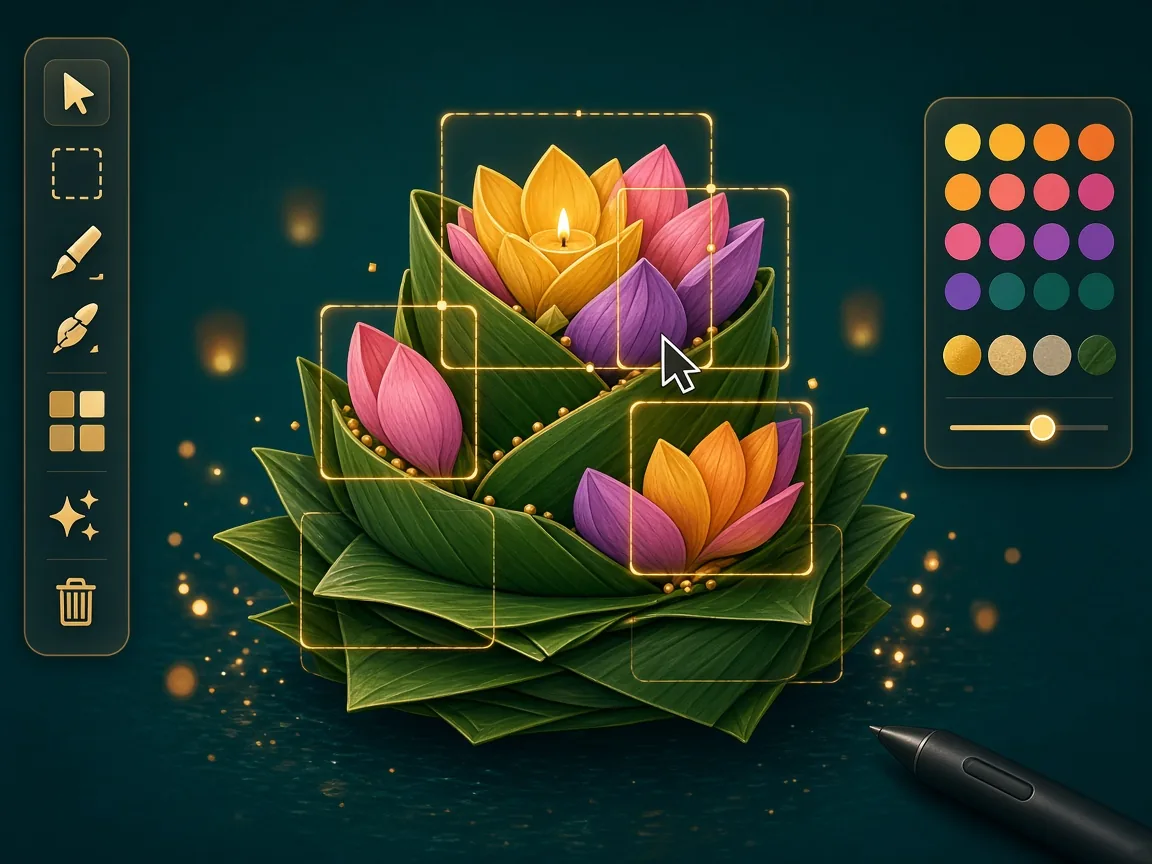
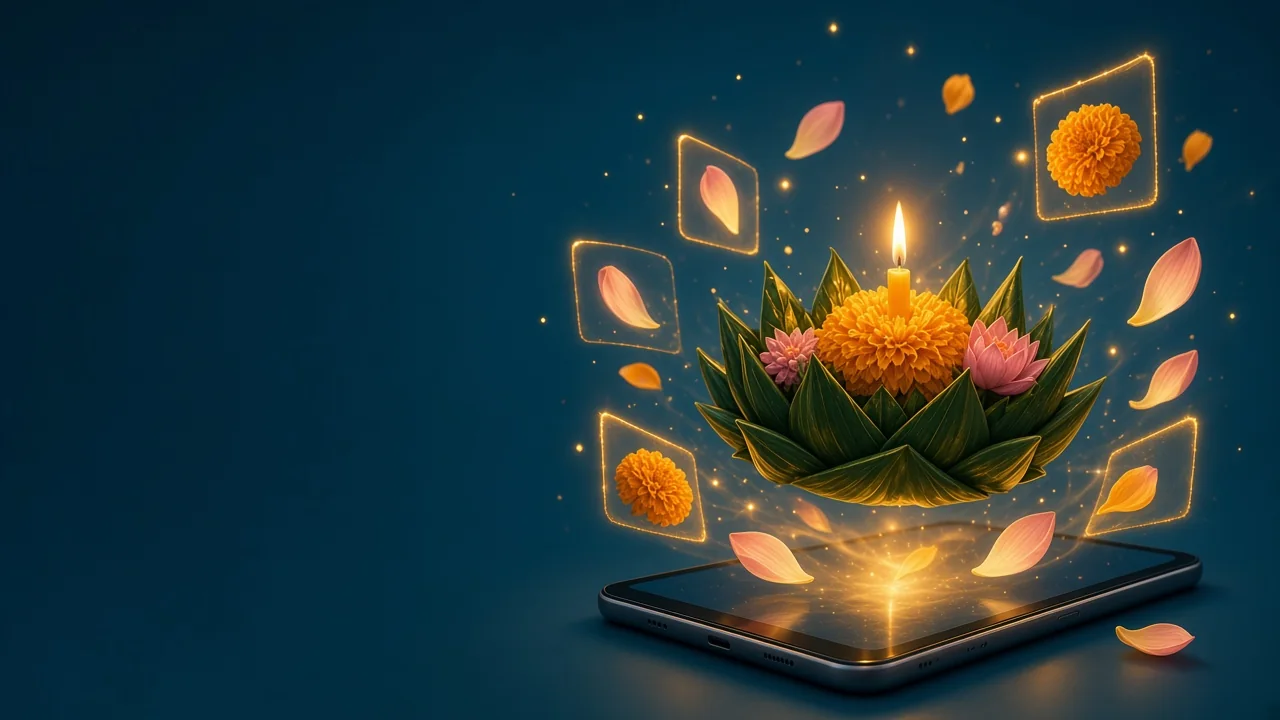
v15.2: 顶栏兰纳织锦按钮（点亮纹理而非平涂渐变）、水灯默认固定尺寸、河面尺寸上限与短岸包装、页头页脚与入口底图

diff --git a/index.html b/index.html
@@ -1,15 +1,15 @@
 <!doctype html>
-<!-- © 2026 CMI Community (Chiang Mai). Designed and made by 林可 (Link) for the 2026 CMI 水灯庆典. Original design; please credit CMI Community when reusing. --><html lang="zh-CN"><head><meta charset="utf-8"><meta name="author" content="林可 (Link) · CMI Community"><meta name="copyright" content="© 2026 CMI Community (Chiang Mai)"><meta property="og:site_name" content="CMI Community"><meta property="og:type" content="website"><meta property="og:locale" content="zh_CN"><meta property="og:locale:alternate" content="en_US"><meta property="og:locale:alternate" content="th_TH"><script type="application/ld+json">{"@context": "https://schema.org", "@type": "WebApplication", "name": "2026 CMI 水灯庆典", "url": "https://linklinkguan.github.io/cmi-loykrathong-cards/", "inLanguage": ["zh-CN", "en", "th"], "author": {"@type": "Person", "name": "林可 (Link)"}, "copyrightHolder": {"@type": "Organization", "name": "CMI Community", "url": "https://cmi.community/"}, "copyrightYear": 2026, "creditText": "© 2026 CMI Community (Chiang Mai). Designed and made by 林可 (Link) for the 2026 CMI 水灯庆典. Original design; please credit CMI Community when reusing.", "license": "https://linklinkguan.github.io/cmi-loykrathong-cards/LICENSE.md"}</script><meta name="viewport" content="width=device-width,initial-scale=1"><meta name="theme-color" content="#065E60"><meta name="description" content="2026 CMI 水灯庆典"><meta property="og:title" content="2026 CMI 水灯庆典"><meta property="og:description" content="抽一张灵感，放一盏心灯"><link rel="canonical" href="https://linklinkguan.github.io/cmi-loykrathong-cards/"><meta property="og:url" content="https://linklinkguan.github.io/cmi-loykrathong-cards/"><title>2026 CMI 水灯庆典</title><link rel="icon" href="img/logo.svg" type="image/svg+xml"><link rel="stylesheet" href="css/style.css?v=1501">
-<link rel="stylesheet" href="css/river.css?v=1503"></head><body>
+<!-- © 2026 CMI Community (Chiang Mai). Designed and made by 林可 (Link) for the 2026 CMI 水灯庆典. Original design; please credit CMI Community when reusing. --><html lang="zh-CN"><head><meta charset="utf-8"><meta name="author" content="林可 (Link) · CMI Community"><meta name="copyright" content="© 2026 CMI Community (Chiang Mai)"><meta property="og:site_name" content="CMI Community"><meta property="og:type" content="website"><meta property="og:locale" content="zh_CN"><meta property="og:locale:alternate" content="en_US"><meta property="og:locale:alternate" content="th_TH"><script type="application/ld+json">{"@context": "https://schema.org", "@type": "WebApplication", "name": "2026 CMI 水灯庆典", "url": "https://linklinkguan.github.io/cmi-loykrathong-cards/", "inLanguage": ["zh-CN", "en", "th"], "author": {"@type": "Person", "name": "林可 (Link)"}, "copyrightHolder": {"@type": "Organization", "name": "CMI Community", "url": "https://cmi.community/"}, "copyrightYear": 2026, "creditText": "© 2026 CMI Community (Chiang Mai). Designed and made by 林可 (Link) for the 2026 CMI 水灯庆典. Original design; please credit CMI Community when reusing.", "license": "https://linklinkguan.github.io/cmi-loykrathong-cards/LICENSE.md"}</script><meta name="viewport" content="width=device-width,initial-scale=1"><meta name="theme-color" content="#065E60"><meta name="description" content="2026 CMI 水灯庆典"><meta property="og:title" content="2026 CMI 水灯庆典"><meta property="og:description" content="抽一张灵感，放一盏心灯"><link rel="canonical" href="https://linklinkguan.github.io/cmi-loykrathong-cards/"><meta property="og:url" content="https://linklinkguan.github.io/cmi-loykrathong-cards/"><title>2026 CMI 水灯庆典</title><link rel="icon" href="img/logo.svg" type="image/svg+xml"><link rel="stylesheet" href="css/style.css?v=1520">
+<link rel="stylesheet" href="css/river.css?v=1524"></head><body>
 <div class="top"><div class="languages"><button data-lang="zh">中</button><button data-lang="en">EN</button><button data-lang="th">ไทย</button></div><button id="sfx" class="mute sfx" type="button" aria-label="关闭音效"><svg viewBox="0 0 24 24" width="18" height="18" fill="none" stroke="currentColor" stroke-width="1.7" stroke-linecap="round" stroke-linejoin="round" aria-hidden="true"><path d="M11 5L6 9H2v6h4l5 4z"/><path class="w1" d="M15.5 8.5a5 5 0 0 1 0 7"/><path class="w2" d="M19 5a10 10 0 0 1 0 14"/><path class="x" d="M16 9l6 6M22 9l-6 6"/></svg></button><button id="mute" class="mute" aria-label="静音">♫</button></div>
 
-<main><header><img src="img/logo-white.webp" alt="CMI Community"><div class="eyebrow">✦ &nbsp; LOY KRATHONG FESTIVAL 2026 &nbsp; ✦</div><h1 data-i="title">2026 CMI 水灯庆典</h1><p data-i="subtitle">抽一张灵感，放一盏心灯</p><div class="event-links"><a class="about-link" href="about.html?lang=zh">活动背景</a></div></header><nav class="tabs"><button data-tab="cards" data-i="cardsTab">抽灵感卡</button><button data-tab="river" data-i="riverTab">水灯</button><button data-tab="culture" data-i="cultureTab">水灯文化</button></nav>
+<main><header><img src="img/logo-white.webp" alt="CMI Community"><div class="eyebrow">✦ &nbsp; LOY KRATHONG FESTIVAL 2026 &nbsp; ✦</div><h1 data-i="title">2026 CMI 水灯庆典</h1><p data-i="subtitle">抽一张灵感，放一盏心灯</p><div class="event-links"><a class="about-link" href="about.html?lang=zh">活动背景</a></div></header><nav class="tabs"><button data-tab="cards"><svg viewBox="0 0 32 32" fill="none" stroke="currentColor" stroke-width="1.7" stroke-linecap="round" stroke-linejoin="round" aria-hidden="true"><rect x="7" y="4" width="18" height="24" rx="2"/><path d="M16 10l1.3 3.7L21 15l-3.7 1.3L16 20l-1.3-3.7L11 15l3.7-1.3z"/></svg><span class="tab-copy"><span class="tab-title" data-i="cardsTab">灵感卡</span><span class="tab-subtitle" data-i="cardsTabSub">抽一张找灵感</span></span></button><button data-tab="river"><svg viewBox="0 0 32 32" fill="none" stroke="currentColor" stroke-width="1.7" stroke-linecap="round" stroke-linejoin="round" aria-hidden="true"><path d="M5 22c3 5 19 5 22 0H5zM16 21c-4-3-5-7 0-12 5 5 4 9 0 12zM15 21c-5 0-8-3-8-7 4 0 6 2 8 5M17 21c5 0 8-3 8-7-4 0-6 2-8 5M16 7V4"/></svg><span class="tab-copy"><span class="tab-title" data-i="riverTab">做水灯</span><span class="tab-subtitle" data-i="riverTabSub">上传或在线创作</span></span></button><button data-tab="culture"><svg viewBox="0 0 32 32" fill="none" stroke="currentColor" stroke-width="1.7" stroke-linecap="round" stroke-linejoin="round" aria-hidden="true"><path d="M16 9c-3-3-7-3-11-2v17c4-1 8-1 11 2m0-17c3-3 7-3 11-2v17c-4-1-8-1-11 2m0-17v17M8 11c2-.3 4 0 5 1m6 0c1-.7 3-1.3 5-1"/></svg><span class="tab-copy"><span class="tab-title" data-i="cultureTab">文化</span><span class="tab-subtitle" data-i="cultureTabSub">了解水灯节</span></span></button></nav>
 <section id="cards"><div class="section-intro"><span>✧</span><h2 data-i="choose">让灵感随水而来</h2><p data-i="how">点「抽一组」获得传统＋挑战＋创意三张组合，也可以单独抽某一类。</p></div><div class="decks" id="decks"></div><div class="actions"><button class="primary" id="drawAll" data-i="drawAll">抽一组</button><div class="secondary-actions" id="singles"></div></div></section>
 <section id="builder" hidden><div class="section-intro"><span>✧</span><h2 data-i="builderTitle">亲手搭一盏水灯</h2><p data-i="builderHelp">选择材料，创作属于你的水灯。</p></div><div id="builder-workspace" aria-live="polite"></div></section>
 <section id="culture" class="culture" hidden></section>
 <section id="river" class="river" hidden></section>
 <section id="upload" class="upload-page" hidden></section>
-<footer><a href="https://cmi.community/" target="_blank" rel="noopener" data-i="website">前往 CMI 官网 ↗</a><p data-i="footer">2026-11-22 · CMI Studio／明月山庄</p><div class="contact"><strong data-i="contact">联系作者</strong><a href="https://x.com/linklinkguan" target="_blank" rel="noopener"><span data-i="dm">在 X 上私信我</span> · @linklinkguan ↗</a></div><small class="credit" data-i="credit"></small><small class="credit" id="siteCredit"></small></footer></main>
+<footer><div class="footer-primary"><a href="https://cmi.community/" target="_blank" rel="noopener" data-i="website">前往 CMI 官网 ↗</a><span aria-hidden="true"> · </span><span data-i="footer">2026-11-22 · CMI Studio／明月山庄</span><span aria-hidden="true"> · </span><a href="https://x.com/linklinkguan" target="_blank" rel="noopener"><span data-i="dm">在 X 上私信我</span> @linklinkguan ↗</a></div><div class="footer-credits"><small class="credit" data-i="credit"></small> <small class="credit" id="siteCredit"></small></div></footer></main>
 <div class="water" aria-hidden="true"><svg viewBox="0 0 800 120" preserveAspectRatio="xMidYMax slice"><defs><g id="float-lantern"><ellipse cy="5" rx="36" ry="7" fill="#d2ad5e" opacity=".17"/><path d="M-30 0 Q0 20 30 0 Q0 9 -30 0" fill="#66884b"/><path d="M-27 -1 Q-25 -17 -11 -3 Q-10 -18 0 -23 Q10 -18 11 -3 Q25 -17 27 -1 Q0 8 -27 -1" fill="#f3e6b7" stroke="#d6b26c" stroke-width="1"/><path d="M-21 0 Q-17 -11 -7 -2 M21 0 Q17 -11 7 -2" fill="none" stroke="#a3bc74"/><rect x="-2" y="-16" width="4" height="11" rx="1" fill="#f6dfa3"/><path d="M0 -25 Q-5 -19 0 -17 Q5 -19 0 -25" fill="#ffc65e"/></g></defs><path d="M0 75 Q100 58 200 75 T400 75 T600 75 T800 75 M0 96 Q100 78 200 96 T400 96 T600 96 T800 96 M0 112 Q100 98 200 112 T400 112 T600 112 T800 112" fill="none" stroke="#e8c77a" opacity=".18"/><g class="boat boat-a"><use href="#float-lantern"/></g><g class="boat boat-b"><use href="#float-lantern"/></g><g class="boat boat-c"><use href="#float-lantern"/></g></svg></div>
-<div id="stage" class="stage" hidden><button class="close" id="close" aria-label="Close">×</button><div class="stage-inner"><div class="eyebrow">✧ &nbsp; YOUR INSPIRATION &nbsp; ✧</div><h2 data-i="reveal">这一刻的灵感</h2><p data-i="tap">轻点卡片，细看灵感</p><div id="reveals" class="reveals"></div><div class="stage-actions"><button class="primary" id="save" data-i="save">保存图片</button><button id="again" data-i="again">再抽一次</button></div></div></div><div id="large" class="large" hidden><button id="closeLarge" class="close">×</button><div id="largeCard"></div><p data-i="flipHint">轻点卡片翻面</p></div><div id="saveOverlay" class="large" hidden><button class="close" onclick="this.parentNode.hidden=true">×</button><p data-i="saveHint">长按图片保存到相册</p><img id="saveImage" alt=""></div><audio id="music" loop src="audio/lanna-loop.mp3"></audio><script src="js/deck.js"></script><script src="js/culture.js?v=1501"></script><script src="js/app.js?v=1501"></script>
-<script src="js/river.js?v=1503"></script></body></html>
+<div id="stage" class="stage" hidden><button class="close" id="close" aria-label="Close">×</button><div class="stage-inner"><div class="eyebrow">✧ &nbsp; YOUR INSPIRATION &nbsp; ✧</div><h2 data-i="reveal">这一刻的灵感</h2><p data-i="tap">轻点卡片，细看灵感</p><div id="reveals" class="reveals"></div><div class="stage-actions"><button class="primary" id="save" data-i="save">保存图片</button><button id="again" data-i="again">再抽一次</button></div></div></div><div id="large" class="large" hidden><button id="closeLarge" class="close">×</button><div id="largeCard"></div><p data-i="flipHint">轻点卡片翻面</p></div><div id="saveOverlay" class="large" hidden><button class="close" onclick="this.parentNode.hidden=true">×</button><p data-i="saveHint">长按图片保存到相册</p><img id="saveImage" alt=""></div><audio id="music" loop src="audio/lanna-loop.mp3"></audio><script src="js/deck.js"></script><script src="js/culture.js?v=1501"></script><script src="js/app.js?v=1522"></script>
+<script src="js/river.js?v=1525"></script></body></html>

diff --git a/css/river.css b/css/river.css
@@ -200,11 +200,30 @@ body:not(.builder-mode) footer{margin-top:auto;padding:32px 0 12px;border-top:1p
 body:not(.builder-mode) footer>a,body:not(.builder-mode) footer p,body:not(.builder-mode) footer .contact{margin:0}
 body:not(.builder-mode) footer .credit{flex-basis:100%}
 body:not(.builder-mode) footer .credit a{font-size:inherit;margin:0}
-.tabs{max-width:490px;align-items:center;gap:8px;background:none;border:0;padding:0}
-.tabs button{border:0;border-radius:4px;background:transparent;color:#d8dfc9;padding:10px 5px}
-.tabs button[data-tab=river]{flex:1.35;border:1px solid #e8c77a;background:linear-gradient(145deg,#145e5b,#073a3e);border-radius:14px;padding:14px 8px;color:#ffe4a1;font-weight:700;box-shadow:0 4px 16px #002a2c77}
-.tabs button.active:not([data-tab=river]){color:#ffe8ad;background:transparent;border-bottom:2px solid #e8c77a}
-.tabs button[data-tab=river].active{background:linear-gradient(145deg,#f2d894,#cb9c48);color:#143f3d}
+/* Main navigation: three distinct, generous actions. */
+.tabs{max-width:850px;align-items:stretch;gap:14px;background:none;border:0;padding:0}
+/* The transparent brocade tile lets the ground and the illuminated threads vary independently. */
+.tabs button,.tabs button[data-tab=river]{position:relative;isolation:isolate;display:flex;align-items:center;justify-content:center;gap:11px;flex:1;min-width:0;min-height:78px;padding:14px 16px;border:1px solid #d9c17d99;border-radius:14px;overflow:hidden;background:#073f40;color:#f7e6bc;text-align:left;box-shadow:0 5px 18px #002a2c55;white-space:normal;transition:border-color .2s,box-shadow .2s,transform .2s}
+.tabs button:before{content:"";position:absolute;inset:0;z-index:-1;border-radius:inherit;background:url('../assets/patterns/lanna-brocade.svg') repeat;opacity:.25;transition:opacity .2s,filter .2s;pointer-events:none}
+.tabs button[data-tab=river]{flex:1.18;background:#d9b56d;border-color:#f9e5af;color:#143f3d}
+.tabs button[data-tab=river]:before{opacity:.4}
+.tabs button:hover{border-color:#ffe4a1;transform:translateY(-2px)}
+.tabs button:hover:before{opacity:.38}
+.tabs button[data-tab=river]:hover:before{opacity:.55}
+.tabs button.active:not([data-tab=river]),.tabs button:not([data-tab=river]):active{background:#073f40;border-color:#f1d38b;color:#fff0c7;box-shadow:0 5px 18px #002a2c55,inset 0 0 22px #e8c77a88}
+.tabs button.active:not([data-tab=river]):before,.tabs button:not([data-tab=river]):active:before{opacity:.7;filter:drop-shadow(0 0 4px #ffc85a) drop-shadow(0 0 8px #e8b44a88)}
+.tabs button.active:not([data-tab=river]) .tab-title{text-decoration:none}
+.tabs button[data-tab=river].active,.tabs button[data-tab=river]:active{box-shadow:0 5px 18px #002a2c55,inset 0 0 20px #fff0aeaa}
+.tabs button[data-tab=river].active:before,.tabs button[data-tab=river]:active:before{opacity:.85;filter:drop-shadow(0 0 3px #fff0b5)}
+.tabs svg{width:30px;height:30px;flex:none;color:#e8c77a}
+.tabs button[data-tab=river] svg{color:#73531d}
+.tab-copy{background:#073f40ed;border-radius:4px;box-shadow:0 0 8px 4px #073f40ed;display:flex;flex-direction:column;gap:3px;min-width:0}
+.tabs button[data-tab=river] .tab-copy{background:#d9b56df2;box-shadow:0 0 8px 4px #d9b56df2}
+.tab-title{font-size:17px;font-weight:700;line-height:1.3}
+.tab-subtitle{font-size:11px;line-height:1.35;white-space:nowrap;opacity:.85}
+@media(max-width:820px){.tabs{gap:8px}.tabs button,.tabs button[data-tab=river]{padding:10px 7px;min-height:58px;gap:5px}.tabs svg{width:23px;height:23px}.tab-title{font-size:14px}.tab-subtitle{display:none}}
+@media(max-width:420px){.tabs{gap:6px}.tabs button,.tabs button[data-tab=river]{padding:8px 4px}.tabs svg{width:20px;height:20px}.tab-title{font-size:12px}}
+
 .about-link{display:inline-block;flex-basis:auto;margin:4px auto 0;padding:8px 22px;border:1px solid #dcbf7b;border-radius:6px;background:linear-gradient(135deg,#e8c77a22,#033b3ddd 45%,#e8c77a22);box-shadow:inset 0 0 0 3px #e8c77a18,0 4px 12px #00282955;text-decoration:none;letter-spacing:.05em}
 .about-link:before,.about-link:after{content:'✧';margin:0 8px;color:#e8c77a}
 .river-entries{grid-template-columns:repeat(2,minmax(0,1fr));max-width:760px}
@@ -235,3 +254,11 @@ body:not(.builder-mode) footer{padding-bottom:120px}
 .river-float{animation:river-open .7s ease-out both}@keyframes river-open{from{opacity:0}to{opacity:1}}
 @media(max-width:600px){.river-entry{min-height:132px}.river-entry[data-entry=float]{min-height:190px;padding:20px}}
 @media(prefers-reduced-motion:reduce){.river-float{animation:none}}
+
+/* v15.2: square logo and centred footer lines. */
+body:not(.builder-mode) header img{width:90px;height:90px;object-fit:contain}
+body:not(.builder-mode) footer{display:block;text-align:center;padding-bottom:120px}
+footer .footer-primary,footer .footer-credits{text-align:center}
+footer .footer-primary a,footer .footer-credits a{display:inline;color:#f3d389;margin:0;font-size:inherit}
+footer .footer-credits{font-size:10px;line-height:1.6}
+@media(max-width:600px){body:not(.builder-mode) header img{width:64px;height:64px}}

diff --git a/js/app.js b/js/app.js
@@ -2,7 +2,7 @@
 const $=s=>document.querySelector(s), $$=s=>[...document.querySelectorAll(s)];
 const strings=window.UI_DATA;
 let lang=localStorage.cmiLkLang||(/^zh/i.test(navigator.language)?'zh':/^th/i.test(navigator.language)?'th':'en'), muted=localStorage.cmiLkMute==='true', entered=false, current=[], last={}, drawCats=[]; const music=$('#music'); music.volume=0;
-function translate(){let t=strings[lang];Object.assign(t,({zh:{cardsTab:'灵感卡',builderTab:'生成器',riverTab:'做水灯',cultureTab:'文化'},en:{cardsTab:'Cards',builderTab:'Create',riverTab:'Make Krathong',cultureTab:'Culture'},th:{cardsTab:'การ์ด',builderTab:'สร้าง',riverTab:'ทำกระทง',cultureTab:'วัฒนธรรม'}})[lang]);document.documentElement.lang=lang==='zh'?'zh-CN':lang;t.title=({zh:'2026 CMI 水灯庆典',en:'2026 CMI Loy Krathong Festival',th:'งานลอยกระทง CMI 2026'})[lang];document.title=t.title;let about=$('.about-link');about.textContent=({zh:'活动背景',en:'About',th:'เกี่ยวกับงาน'})[lang];about.href='about.html?lang='+lang;$$('[data-i]').forEach(e=>e.textContent=t[e.dataset.i]);$$('[data-lang]').forEach(e=>e.classList.toggle('active',e.dataset.lang===lang));$('#decks').innerHTML=t.names.map((n,i)=>`<button class="deck" data-cat="0${i+1}"><div class="stack">${Array(5).fill(`<img draggable="false" src="img/back-0${i+1}${lang==='th'?'-th':''}.webp" alt="">`).join('')}${lang==='zh'?'':lang==='th'?'<span class="stack-th"><span>ทำตามแบบ หรือสร้างในแบบของคุณ</span></span>':`<span class="stack-subtitle">Follow along, or make it your own</span>`}</div><strong>${n}</strong><small>${t.count}</small></button>`).join('');$('#singles').innerHTML=t.single.map((n,i)=>`<button data-cat="0${i+1}">${n}</button>`).join(''); $$('#decks button,#singles button').forEach(b=>b.onclick=()=>draw([b.dataset.cat]));if(current.length){renderCards();$$('#reveals .flipper').forEach(e=>e.classList.add('open'));if(!$('#large').hidden&&largeIndex>=0)showLarge(largeIndex)}renderParts();renderCulture(lang);$('#siteCredit').innerHTML=cultureText[lang].organisers;musicCredit();}
+function translate(){let t=strings[lang];Object.assign(t,({zh:{cardsTab:'灵感卡',cardsTabSub:'抽一张找灵感',riverTabSub:'上传或在线创作',cultureTabSub:'了解水灯节',builderTab:'生成器',riverTab:'做水灯',cultureTab:'文化'},en:{cardsTab:'Cards',cardsTabSub:'Draw a card for ideas',riverTabSub:'Upload or make one online',cultureTabSub:'The story of Loy Krathong',builderTab:'Create',riverTab:'Make Krathong',cultureTab:'Culture'},th:{cardsTab:'การ์ด',cardsTabSub:'จั่วการ์ดหาไอเดีย',riverTabSub:'อัปโหลดหรือทำออนไลน์',cultureTabSub:'เรื่องราวลอยกระทง',builderTab:'สร้าง',riverTab:'ทำกระทง',cultureTab:'วัฒนธรรม'}})[lang]);document.documentElement.lang=lang==='zh'?'zh-CN':lang;t.title=({zh:'2026 CMI 水灯庆典',en:'2026 CMI Loy Krathong Festival',th:'งานลอยกระทง CMI 2026'})[lang];document.title=t.title;let about=$('.about-link');about.textContent=({zh:'活动背景',en:'About',th:'เกี่ยวกับงาน'})[lang];about.href='about.html?lang='+lang;$$('[data-i]').forEach(e=>e.textContent=t[e.dataset.i]);$$('[data-lang]').forEach(e=>e.classList.toggle('active',e.dataset.lang===lang));$('#decks').innerHTML=t.names.map((n,i)=>`<button class="deck" data-cat="0${i+1}"><div class="stack">${Array(5).fill(`<img draggable="false" src="img/back-0${i+1}${lang==='th'?'-th':''}.webp" alt="">`).join('')}${lang==='zh'?'':lang==='th'?'<span class="stack-th"><span>ทำตามแบบ หรือสร้างในแบบของคุณ</span></span>':`<span class="stack-subtitle">Follow along, or make it your own</span>`}</div><strong>${n}</strong><small>${t.count}</small></button>`).join('');$('#singles').innerHTML=t.single.map((n,i)=>`<button data-cat="0${i+1}">${n}</button>`).join(''); $$('#decks button,#singles button').forEach(b=>b.onclick=()=>draw([b.dataset.cat]));if(current.length){renderCards();$$('#reveals .flipper').forEach(e=>e.classList.add('open'));if(!$('#large').hidden&&largeIndex>=0)showLarge(largeIndex)}renderParts();renderCulture(lang);$('#siteCredit').innerHTML=cultureText[lang].organisers;musicCredit();}
 $$('[data-lang]').forEach(b=>b.onclick=()=>{lang=b.dataset.lang;localStorage.cmiLkLang=lang;translate()});/* v14 audio: music and UI sounds are separate; both default ON, the user's own choice is remembered */
 let sfxOff=localStorage.cmiLkSfx==='off';const audioSubs=[];const audioNotify=()=>audioSubs.forEach(f=>{try{f()}catch(e){}});
 function musicPlaying(){return !music.paused&&!muted}
